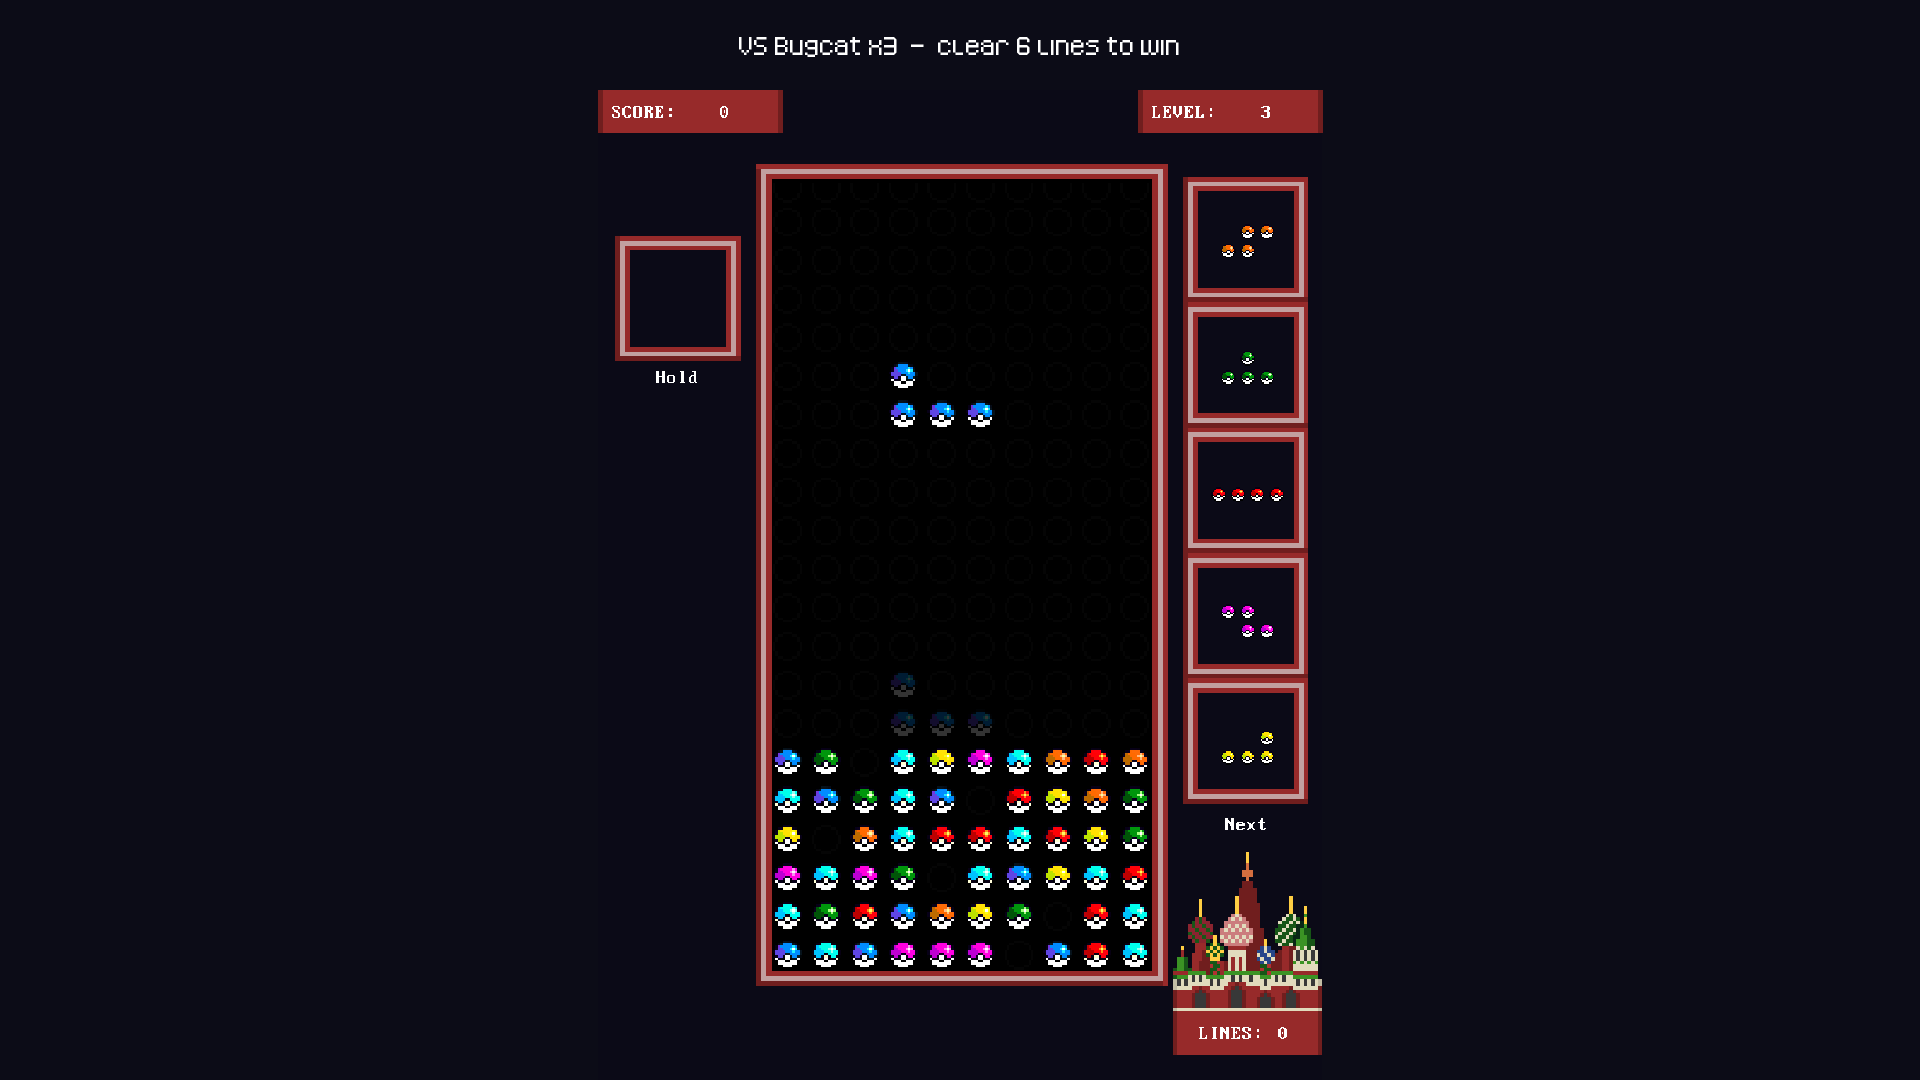
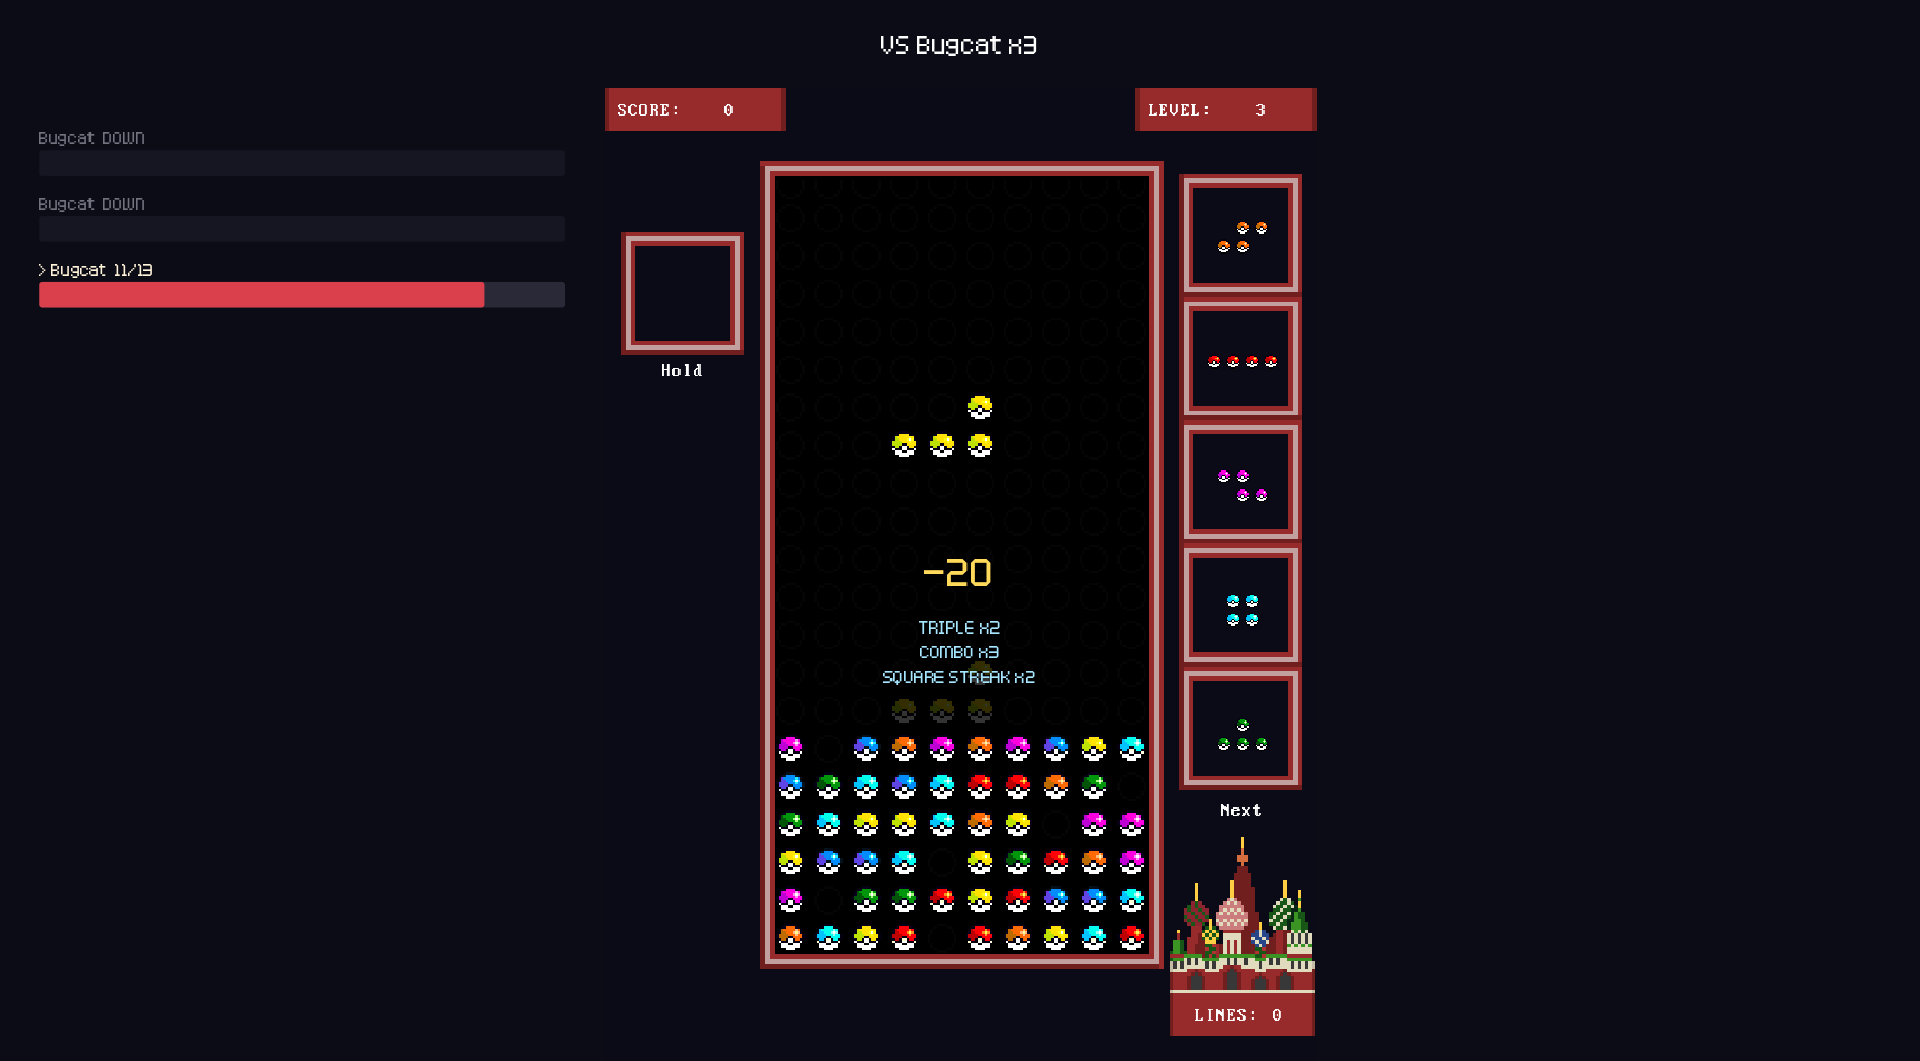
Tetris combat: damage rules, enemies with health bars
Line clears now damage enemies instead of counting toward a line target.

- One damage per line cleared, with bonus rules for multi-line clears,
  combos, same-piece streaks (3 square clears double damage),
  back-to-back Tetrises and perfect clears.
- Enemies derived from the arena's Battlers, each with its own health bar.
  Damage hits the front enemy and spills onto the next; the battle ends
  when all are defeated.
- Remove temporary test scripts.

diff --git a/TETRIS_INTEGRATION.md b/TETRIS_INTEGRATION.md
@@ -1,18 +1,22 @@
-# Tetris-combat proof of concept
+# Tetris combat
 
-Replaces OpenRPG's turn-based JRPG battles with a game of Tetris
-([PokeTetris](https://github.com/jpcerrone/PokeTetris), MIT). Walk into an enemy
-on the field and a Tetris board pops up instead of the battle screen.
+Fights in this RPG are resolved by playing Tetris. Clearing lines damages the
+enemies; the battle is won when every enemy is defeated and lost if you top out.
+
+Built on [OpenRPG](https://github.com/gdquest-demos/godot-open-rpg) (MIT) and
+[PokeTetris](https://github.com/jpcerrone/PokeTetris) (MIT).
+
+![Tetris battle](media/tetris_battle_screenshot.png)
 
 ## How to run
 
-Open `C:\Godot\godot-open-rpg` in Godot and press F5, or from a terminal:
+Open `C:\Godot\godot-open-rpg` in Godot and press F5, or:
 
 ```bash
 "C:\Godot_v4.5-stable_mono_win64\Godot_v4.5-stable_mono_win64.exe" --path "C:\Godot\godot-open-rpg"
 ```
 
-## Controls during a battle
+## Controls
 
 | Key | Action |
 |---|---|
@@ -24,102 +28,143 @@ Open `C:\Godot\godot-open-rpg` in Godot and press F5, or from a terminal:
 | Shift | Hold / swap piece |
 | Esc | Forfeit the battle (counts as a loss) |
 
-**Win:** clear the number of lines shown in the banner. **Lose:** top out, or forfeit.
+## How damage works
 
-![Tetris battle](media/tetris_battle_screenshot.png)
+The base rule is **one damage per line cleared**. Everything else is a bonus:
 
-## Enemies set the difficulty
+```
+damage = ceil((lines + flat_bonuses) * all_multipliers)
+```
 
-Each encounter's board is built from the enemies placed in its `CombatArena`
-(`src/combat/tetris_battle_config.gd`):
+| Rule | Effect | Label shown |
+|---|---|---|
+| Line count | 1 line ×1, 2 ×1.5, 3 ×2, 4 ×3 | `DOUBLE` / `TRIPLE` / `TETRIS` |
+| Combo | +1 flat damage per clear in an unbroken chain | `COMBO xN` |
+| Same-piece streak | 3 clears in a row with the **square** doubles the damage, then restarts | `SQUARE STREAK x2` |
+| Back-to-back | Two Tetrises in a row ×1.5 | `BACK-TO-BACK x1.5` |
+| Perfect clear | Emptying the board ×5 | `PERFECT CLEAR x5` |
+
+Worked example — a 3-line clear that completes a square streak while 3 clears
+into a combo: `(3 lines + 2 combo) × 2 (TRIPLE) × 2 (SQUARE STREAK) = 20`.
+
+A **combo** breaks when a piece locks without clearing. A **same-piece streak**
+deliberately does not, so "three clears with the square" doesn't demand three
+consecutive pieces.
+
+### Adding a rule
+
+Rules live in `src/combat/tetris_damage_rules.gd`. Each one is a small method
+returning a `Contribution` (`flat`, `multiplier`, `label`):
+
+```gdscript
+# Clearing from a board that is nearly topped out is worth more.
+func _rule_desperation(board_height_ratio: float) -> Contribution:
+	var contribution: = Contribution.new()
+	if board_height_ratio < 0.8:
+		return contribution
+	contribution.multiplier = 2.0
+	contribution.label = "DESPERATION x2"
+	return contribution
+```
+
+Then add one line to the rule list in `resolve_clear()`. Streak state lives on
+the object and survives the whole battle, so a rule can react to earlier clears.
+Anything with a non-empty `label` is shown to the player automatically.
+
+## Enemies
+
+Each enemy in the encounter's `CombatArena` becomes a `TetrisEnemy` with its own
+health bar. Damage hits the **first enemy still standing** (marked `>`), and
+overkill spills onto the next one, so a big Tetris can drop two weak enemies at
+once.
 
 | Enemy stat | Board effect | Rate |
 |---|---|---|
-| Total health | Lines to clear | 1 line per 25 HP |
-| Total attack | Garbage rows already on the board (one gap each) | 1 row per 5 attack |
+| Health | That enemy's battle HP | 1 HP per 4 health |
+| Total attack | Garbage rows on the board at the start (one gap each) | 1 row per 5 attack |
 | Fastest speed | Starting level (fall speed) | +1 level per 20 speed |
 
 With the stock arenas:
 
-| Arena | Enemies | Lines | Garbage | Start level |
+| Arena | Enemies | Battle HP | Garbage | Start level |
 |---|---|---|---|---|
-| `test_combat_arena.tscn` | Bugcat ×3 | 6 | 6 | 3 |
-| `test_combat_arena2.tscn` | Bugcat, Wolf | 6 | 4 | 3 |
+| `test_combat_arena.tscn` | Bugcat ×3 | 13 each (39) | 6 | 3 |
+| `test_combat_arena2.tscn` | Bugcat, Wolf | 13 + 25 (38) | 4 | 3 |
 
-The two come out similar because OpenRPG's sample enemies have near-identical
-stats (Bugcat 50 HP, Wolf 100 HP, both 10 attack). Different stats or the
-overrides below make encounters diverge.
+Tuning: `HEALTH_PER_HP` in `tetris_battle_config.gd` sets fight length globally —
+lower it for longer fights.
 
 ### Per-arena overrides
 
-Open an arena scene, select its root, and use the **Tetris Battle** group in the
-inspector:
+Select an arena's root node and use the **Tetris Battle** group in the inspector:
 
 | Property | Default | Meaning |
 |---|---|---|
-| `tetris_target_lines` | `0` | Lines to win. `0` = derive from health |
+| `tetris_enemy_hp` | `0` | HP for every enemy here. `0` = derive from health |
 | `tetris_garbage_rows` | `-1` | Starting garbage. `-1` = derive from attack |
 | `tetris_start_level` | `0` | Starting level. `0` = derive from speed |
 
-To retune every encounter at once, change the three constants at the top of
-`tetris_battle_config.gd`.
+## Structure
 
-## Why this was easy: OpenRPG already had the right seam
-
-Combat in OpenRPG is bounded by two signals, so the battle implementation is
-swappable without touching the overworld at all:
+The battle is split so each piece does one job:
 
 ```
-FieldEvents.combat_triggered(arena)  →  [ battle ]  →  CombatEvents.combat_finished(won)
+CombatArena (which enemies)
+   └─> TetrisBattleConfig   enemies + starting difficulty
+         └─> TetrisBattle   owns the board, applies damage, decides the winner
+               ├─ TetrisDamageRules   clear -> damage (combos, streaks)
+               ├─ TetrisEnemy         one enemy's health
+               └─ UITetrisEnemyList   the health bars
 ```
 
-`field.gd` hides the map on `combat_initiated` and shows it again on
-`combat_finished`; `combat_trigger.gd` awaits `combat_finished` to run its
-victory/loss cutscene. Emitting those two signals is the entire contract, so the
-Tetris battle drops straight in.
-
-## What changed
-
-| File | Change |
+| File | Role |
 |---|---|
-| `src/combat/tetris_battle_config.gd` | **New.** `TetrisBattleConfig.from_arena()` turns an arena's enemy stats into lines / garbage / level, applies per-arena overrides, and names the enemies for the banner. |
-| `src/combat/tetris_battle.gd` | **New.** Hosts the PokeTetris `Main` scene under a "VS …" banner, scales/centres the board into the viewport, gives it its own 16px font theme, and re-emits its outcome as `finished(won, score, lines)`. |
-| `src/combat/combat.gd` | `setup()` now branches on `use_tetris_combat` and passes the triggering arena to `_setup_tetris_combat()`. Added `_on_tetris_combat_finished()` and `_display_tetris_results_dialog()`. The original JRPG flow is untouched, just renamed to `_setup_jrpg_combat()`. |
-| `src/combat/combat_arena.gd` | Added the three `tetris_*` override exports. |
-| `scr/Grid.gd` | Added `battle_finished` signal, `target_lines`, `start_level`, `garbage_rows`, `_apply_battle_setup()` and `_finish_battle()`. **Replaced two `get_tree().quit()` calls** — on top-out and on Escape — which would otherwise have closed the whole RPG. |
-| `project.godot` | Merged PokeTetris's 4 autoloads and 4 input actions (`rotate_clockwise`, `rotate_anticlockwise`, `swap_piece`, `ui_exit`). |
-| `.gitignore` | `/audio` → `/audio/*` plus an exception, so the Tetris music isn't silently dropped on a fresh clone. |
-| `scr/ scn/ spr/ fonts/ extras/ audio/` | PokeTetris files, copied at their **original `res://` paths** so none of its internal `preload()` strings needed rewriting. |
+| `src/combat/tetris_damage_rules.gd` | The rule engine. **Add new combo rules here.** |
+| `src/combat/tetris_damage_breakdown.gd` | One clear's result: damage + bonus labels |
+| `src/combat/tetris_enemy.gd` | An enemy's name and health |
+| `src/combat/ui/ui_tetris_enemy_list.gd` | Health bars, target marker, DOWN state |
+| `src/combat/tetris_battle_config.gd` | Arena enemies -> battle setup |
+| `src/combat/tetris_battle.gd` | Hosts the board, applies damage, damage popups |
+| `src/combat/combat.gd` | Branches on `use_tetris_combat`; original JRPG flow kept as `_setup_jrpg_combat()` |
+| `scr/Grid.gd` | PokeTetris board. Emits `lines_cleared(count, piece, is_perfect_clear)` and `clearless_lock` |
+
+The board reports *what happened*; it does not decide damage or when the battle
+ends (except topping out). That keeps the rules in one place.
+
+### Changes made to PokeTetris
+
+- Added `lines_cleared`, `clearless_lock` and `battle_finished` signals.
+- `afterDrop()` captures which piece locked **before** `currentPiece` is reset —
+  the square-streak rule depends on it.
+- Added `start_level`, `garbage_rows`, `isBoardEmpty()` (perfect clears) and
+  `end_battle()`.
+- **Replaced two `get_tree().quit()` calls** (top-out and Escape) which would
+  otherwise have closed the whole RPG.
 
 ## Switching back to JRPG combat
 
-Select the `Combat` node in `src/main.tscn` and untick **Use Tetris Combat** in
-the inspector, or change the default in `src/combat/combat.gd`:
-
-```gdscript
-@export var use_tetris_combat: = true      # false restores turn-based battles
-```
+Select the `Combat` node in `src/main.tscn` and untick **Use Tetris Combat**.
 
 ## Godot version note
 
-OpenRPG was authored against Godot **4.6.2**. It was imported and run here with
-the installed Godot **4.5**, which rewrote `config/features` to `"4.5"` and
-opened it without errors. Two side effects of that re-save were repaired:
-Dialogic's `dch_directory` / `dtl_directory` maps were blanked and have been
-restored from git. If you later move to 4.6+, expect `config/features` to flip
-back.
+OpenRPG was authored against Godot 4.6.2 and is being run here with Godot 4.5,
+which rewrote `config/features` to `"4.5"` and opened it without errors. That
+re-save also blanked Dialogic's `dch_directory` / `dtl_directory`, which have
+been restored from git.
 
 ## Verified
 
-- Derived configs for both stock arenas and the no-arena fallback (4 lines, no garbage, level 1).
-- Garbage rows: correct count, exactly one gap per row, level label and fall speed applied.
-- End-to-end win path (arena 1) and loss path (arena 2, forced top-out): `combat_triggered` →
-  field hides → board live → results dialog → `combat_finished(won)`.
-- Windowed 1920×1080 screenshot of the live battle (above). Boots with zero script errors.
+- Every rule unit-tested: base damage, square streak firing on the 3rd clear and
+  resetting, a non-square clear breaking the streak, combos, back-to-back
+  Tetrises, perfect clear.
+- Damage spilling across enemies, and a battle ending when the last one drops.
+- End to end in the real game: encounter -> board -> damage -> results dialog ->
+  `combat_finished(won)`, for both a win and a loss.
+- Windowed 1920×1080 screenshot (above). Boots with zero script errors.
 
-## What this PoC deliberately does NOT do
+## Not done yet
 
-Difficulty is fixed when the battle starts. Enemies don't act during the fight —
-no garbage pushed on a timer, no status effects — and your party and creature
-modifiers have no effect on the board yet. Those are the parts that would make
-it an RPG rather than Tetris with walking in between.
+Enemies are still passive: they have health but never act. Nothing pushes
+garbage onto your board mid-fight, there are no status effects, and your party
+has no influence on the board. The next step is enemy attacks on a timer driven
+by each enemy's speed stat.
